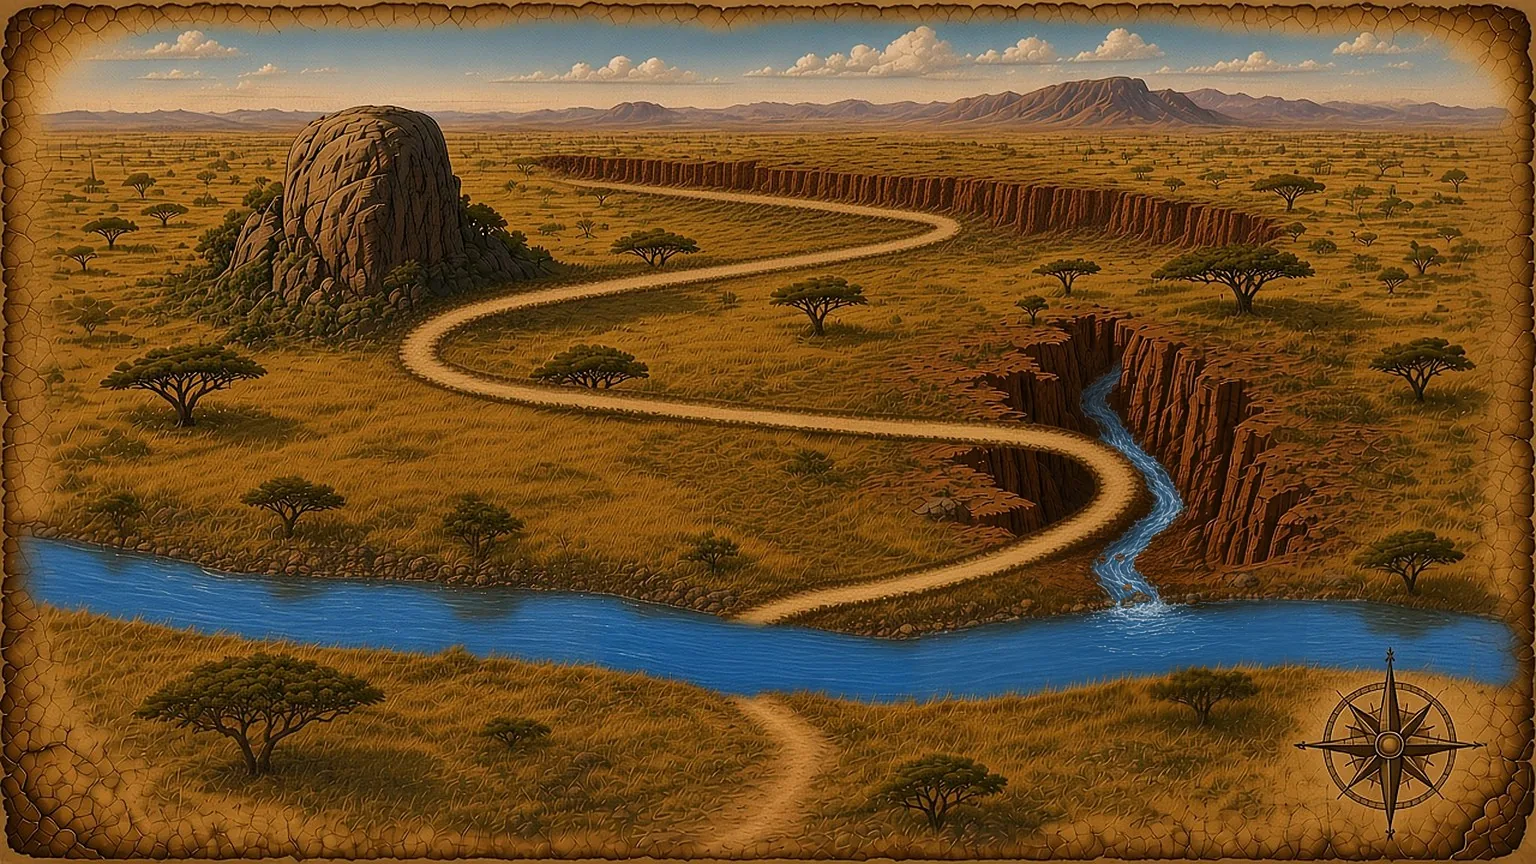
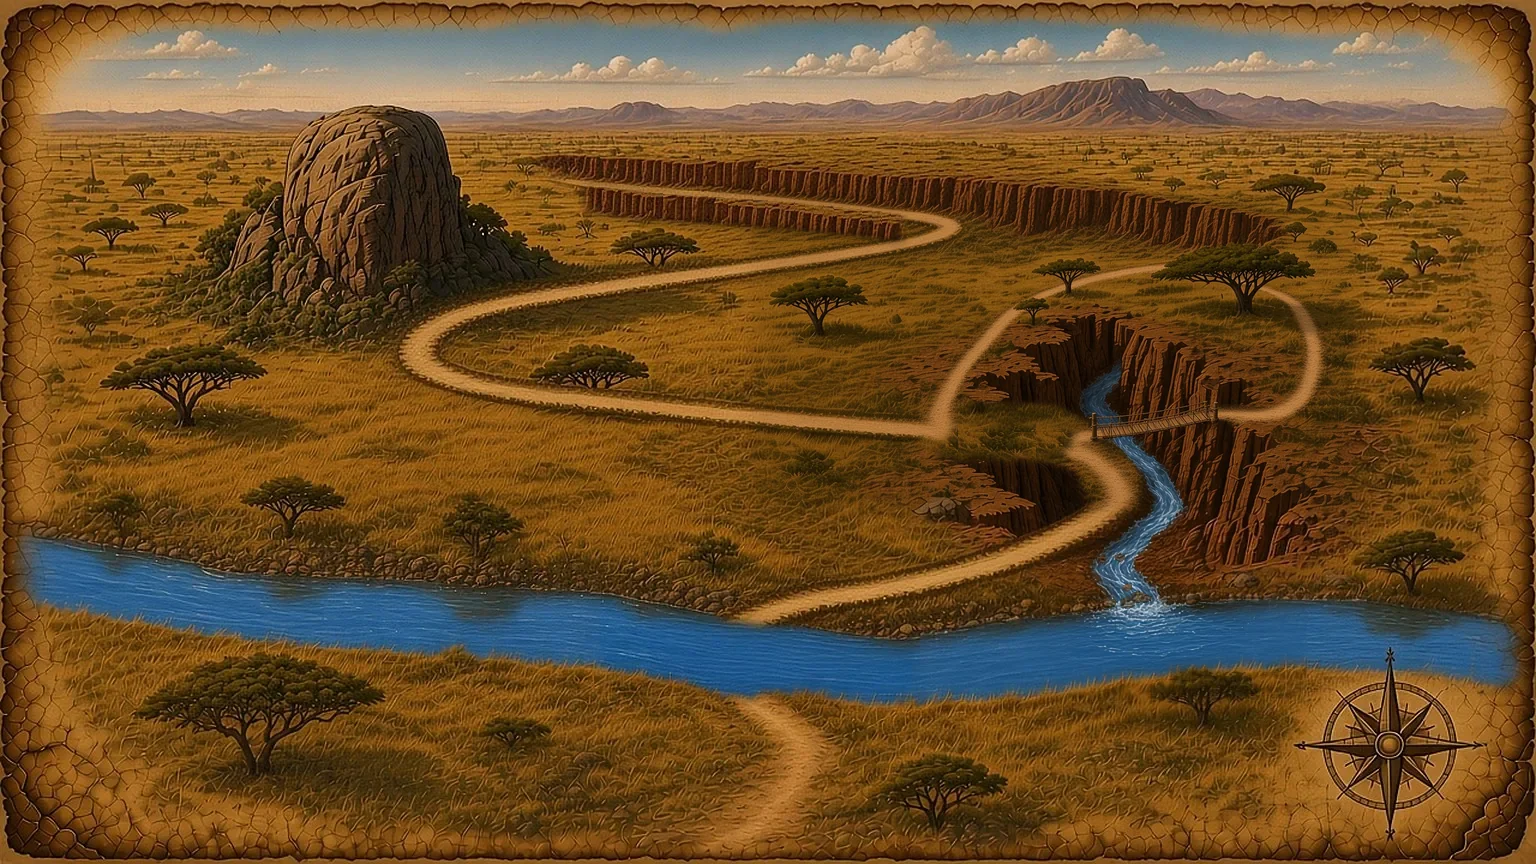
Map changes from Joe's 8:32-8:34 PM notes. Savanna: Needle Gap moved across the canyon onto the east rim, reached by a rope-and-plank bridge; the trail then loops around the head of the gorge to King's Crossing (old shortcut bend removed). Final path into Rendezvous Point now runs through a narrow g

Changed region(s): [[0.375, 0.2188, 0.875, 0.5938], [0.5312, 0.5, 0.5938, 0.5625]]

diff --git a/index.html b/index.html
@@ -2406,8 +2406,8 @@ const EP_INFO = [
       [796,192],[791,191],[785,189],[779,188],[773,186],[767,185],[761,184]
     ] },
   { name: "The Savanna", filter: "", soon: "", map: "map-savanna-wide", rendezvous: "Rendezvous Point",
-    pts: [[776, 804], [761, 659], [1116, 484], [419, 351], [577, 182]],
-    lab: [[110, 0], [125, 5], [-120, 0], [-110, 10], [-10, -45]],
+    pts: [[776, 804], [761, 659], [1252, 410], [419, 351], [577, 182]],
+    lab: [[110, 0], [125, 5], [118, 8], [-110, 10], [-10, -45]],
     path: [
       [776,804],[779,799],[782,794],[786,789],[789,784],[792,779],[796,774],[799,769],
       [801,763],[803,757],[802,751],[800,746],[796,741],[793,736],[789,731],[785,727],
@@ -2421,45 +2421,58 @@ const EP_INFO = [
       [978,567],[984,566],[990,564],[996,563],[1001,561],[1007,559],[1013,557],[1018,555],
       [1024,553],[1030,551],[1035,548],[1041,546],[1046,544],[1052,541],[1057,539],[1062,536],
       [1068,533],[1073,530],[1078,527],[1083,524],[1088,521],[1093,517],[1098,513],[1102,509],
-      [1106,505],[1110,500],[1113,495],[1116,490],[1116,484],[1115,478],[1113,472],[1109,468],
-      [1105,463],[1101,459],[1096,456],[1091,453],[1085,450],[1080,448],[1074,446],[1068,444],
-      [1062,443],[1057,441],[1051,440],[1045,439],[1039,438],[1033,438],[1027,437],[1021,436],
-      [1015,435],[1009,434],[1003,434],[997,433],[991,433],[985,433],[979,433],[973,432],
-      [967,432],[961,431],[955,431],[949,431],[943,431],[937,430],[931,430],[925,429],
-      [919,429],[913,429],[907,428],[901,428],[895,428],[889,428],[884,427],[878,426],
-      [872,426],[866,426],[860,425],[854,425],[848,424],[842,424],[836,423],[830,423],
-      [824,422],[818,422],[812,421],[806,421],[800,420],[794,420],[788,419],[782,418],
-      [776,418],[770,417],[764,417],[758,417],[752,416],[746,416],[740,415],[734,415],
-      [728,414],[722,414],[716,413],[710,412],[704,412],[698,411],[692,411],[686,410],
-      [680,409],[674,409],[668,408],[662,407],[656,407],[650,406],[645,406],[639,405],
-      [633,405],[627,404],[621,403],[615,403],[609,403],[603,402],[597,401],[591,401],
-      [585,400],[579,399],[573,399],[567,398],[561,397],[555,397],[549,397],[543,397],
-      [537,396],[531,395],[525,394],[519,393],[513,392],[507,391],[501,390],[496,389],
-      [490,388],[484,387],[478,386],[472,384],[466,383],[460,381],[455,379],[449,377],
-      [444,375],[438,372],[433,369],[428,366],[424,362],[420,357],[419,351],[420,345],
-      [422,340],[426,335],[430,331],[435,327],[440,324],[446,321],[451,319],[457,316],
-      [462,314],[468,312],[474,311],[479,309],[485,308],[491,306],[497,305],[503,304],
-      [509,302],[514,301],[520,300],[526,299],[532,298],[538,297],[544,296],[550,295],
-      [556,294],[562,293],[568,292],[574,291],[580,290],[586,290],[591,289],[597,288],
-      [603,287],[609,286],[615,285],[621,284],[627,283],[633,283],[639,282],[645,281],
-      [651,280],[657,279],[663,279],[669,278],[675,277],[681,276],[687,276],[692,275],
-      [698,274],[704,273],[710,272],[716,272],[722,271],[728,270],[734,269],[740,269],
-      [746,268],[752,267],[758,266],[764,265],[770,264],[776,264],[782,263],[788,262],
-      [794,261],[799,260],[805,259],[811,259],[817,258],[823,257],[829,256],[835,255],
-      [841,254],[847,253],[853,252],[859,252],[865,251],[871,250],[877,249],[883,247],
-      [888,246],[894,245],[900,244],[906,243],[912,242],[918,241],[924,239],[929,237],
-      [935,235],[939,230],[938,224],[934,220],[929,218],[923,217],[917,216],[911,215],
-      [905,214],[899,214],[893,213],[887,213],[881,212],[875,212],[869,211],[863,210],
-      [857,210],[851,209],[845,208],[839,207],[833,206],[827,206],[821,205],[815,205],
-      [809,204],[804,203],[798,203],[792,202],[786,201],[780,201],[774,200],[768,200],
-      [762,199],[756,198],[750,198],[744,198],[738,197],[732,197],[726,196],[720,196],
-      [714,195],[708,194],[702,194],[696,193],[690,193],[684,193],[678,192],[672,191],
-      [666,191],[660,190],[654,190],[648,189],[642,189],[636,188],[630,187],[624,186],
-      [618,186],[612,185],[606,185],[600,185],[594,184],[589,183],[583,183],[577,182]
+      [1106,505],[1110,500],[1113,495],[1115,490],[1116,484],[1115,478],[1114,472],[1112,466],
+      [1110,461],[1107,455],[1105,450],[1101,445],[1097,440],[1093,436],[1093,431],[1099,429],
+      [1105,428],[1111,428],[1117,427],[1123,427],[1129,426],[1135,425],[1141,424],[1147,423],
+      [1152,423],[1158,422],[1164,421],[1170,420],[1176,420],[1182,419],[1188,418],[1194,418],
+      [1200,418],[1206,417],[1212,417],[1218,416],[1224,416],[1230,415],[1236,415],[1242,415],
+      [1248,415],[1254,415],[1260,414],[1266,413],[1272,412],[1278,411],[1283,409],[1289,406],
+      [1294,403],[1298,398],[1301,393],[1304,388],[1306,383],[1309,377],[1311,372],[1313,366],
+      [1315,360],[1315,354],[1314,349],[1312,343],[1310,337],[1307,332],[1304,327],[1301,322],
+      [1298,316],[1295,311],[1292,306],[1288,301],[1285,296],[1281,294],[1276,293],[1270,291],
+      [1264,289],[1258,288],[1253,286],[1247,284],[1241,282],[1235,281],[1230,279],[1224,278],
+      [1218,276],[1212,275],[1206,273],[1200,272],[1194,271],[1189,270],[1183,269],[1177,269],
+      [1171,268],[1165,268],[1159,268],[1153,269],[1147,269],[1141,270],[1135,270],[1129,271],
+      [1123,272],[1117,274],[1111,275],[1105,276],[1099,278],[1094,279],[1088,280],[1082,282],
+      [1076,283],[1070,284],[1064,286],[1059,288],[1053,290],[1048,293],[1042,295],[1037,298],
+      [1032,301],[1027,304],[1022,307],[1017,310],[1012,314],[1007,318],[1002,321],[998,325],
+      [994,330],[990,334],[986,339],[982,344],[979,349],[975,353],[972,358],[968,363],
+      [964,368],[961,373],[957,378],[954,383],[951,388],[948,393],[946,398],[944,404],
+      [942,410],[941,416],[938,421],[935,426],[929,429],[923,429],[917,429],[911,429],
+      [905,429],[901,428],[895,428],[889,428],[884,427],[878,426],[872,426],[866,426],
+      [860,425],[854,425],[848,424],[842,424],[836,423],[830,423],[824,422],[818,422],
+      [812,421],[806,421],[800,420],[794,420],[788,419],[782,418],[776,418],[770,417],
+      [764,417],[758,417],[752,416],[746,416],[740,415],[734,415],[728,414],[722,414],
+      [716,413],[710,412],[704,412],[698,411],[692,411],[686,410],[680,409],[674,409],
+      [668,408],[662,407],[656,407],[650,406],[645,406],[639,405],[633,405],[627,404],
+      [621,403],[615,403],[609,403],[603,402],[597,401],[591,401],[585,400],[579,399],
+      [573,399],[567,398],[561,397],[555,397],[549,397],[543,397],[537,396],[531,395],
+      [525,394],[519,393],[513,392],[507,391],[501,390],[496,389],[490,388],[484,387],
+      [478,386],[472,384],[466,383],[460,381],[455,379],[449,377],[444,375],[438,372],
+      [433,369],[428,366],[424,362],[420,357],[419,351],[420,345],[422,340],[426,335],
+      [430,331],[435,327],[440,324],[446,321],[451,319],[457,316],[462,314],[468,312],
+      [474,311],[479,309],[485,308],[491,306],[497,305],[503,304],[509,302],[514,301],
+      [520,300],[526,299],[532,298],[538,297],[544,296],[550,295],[556,294],[562,293],
+      [568,292],[574,291],[580,290],[586,290],[591,289],[597,288],[603,287],[609,286],
+      [615,285],[621,284],[627,283],[633,283],[639,282],[645,281],[651,280],[657,279],
+      [663,279],[669,278],[675,277],[681,276],[687,276],[692,275],[698,274],[704,273],
+      [710,272],[716,272],[722,271],[728,270],[734,269],[740,269],[746,268],[752,267],
+      [758,266],[764,265],[770,264],[776,264],[782,263],[788,262],[794,261],[799,260],
+      [805,259],[811,259],[817,258],[823,257],[829,256],[835,255],[841,254],[847,253],
+      [853,252],[859,252],[865,251],[871,250],[877,249],[883,247],[888,246],[894,245],
+      [900,244],[906,243],[912,242],[918,241],[924,239],[929,237],[935,235],[939,230],
+      [938,224],[934,220],[929,218],[923,217],[917,216],[911,215],[905,214],[899,214],
+      [893,213],[887,213],[881,212],[875,212],[869,211],[863,210],[857,210],[851,209],
+      [845,208],[839,207],[833,206],[827,206],[821,205],[815,205],[809,204],[804,203],
+      [798,203],[792,202],[786,201],[780,201],[774,200],[768,200],[762,199],[756,198],
+      [750,198],[744,198],[738,197],[732,197],[726,196],[720,196],[714,195],[708,194],
+      [702,194],[696,193],[690,193],[684,193],[678,192],[672,191],[666,191],[660,190],
+      [654,190],[648,189],[642,189],[636,188],[630,187],[624,186],[618,186],[612,185],
+      [606,185],[600,185],[594,184],[589,183],[583,183],[577,182]
     ] },
   { name: "Mountain Crossing", filter: "", soon: "", map: "map-mountain-wide", rendezvous: "Rendezvous Point",
-    pts: [[687, 795], [450, 602], [1101, 467], [520, 320], [881, 143]],
-    lab: [[-110, 0], [-120, -45], [110, 0], [-60, 50], [110, 10]],
+    pts: [[687, 795], [450, 602], [1101, 467], [520, 320], [1218, 354]],
+    lab: [[-110, 0], [-120, -45], [110, 0], [-60, 50], [30, 42]],
     path: [
       [687,795],[681,793],[676,790],[672,786],[669,781],[670,775],[673,770],[678,766],
       [684,764],[689,762],[695,761],[701,760],[707,758],[713,757],[719,755],[724,754],
@@ -2507,7 +2520,18 @@ const EP_INFO = [
       [712,205],[717,204],[723,203],[729,202],[735,201],[741,200],[747,199],[753,198],
       [759,197],[765,196],[771,195],[777,194],[782,192],[788,191],[794,190],[800,189],
       [806,187],[812,186],[817,184],[823,183],[829,181],[835,179],[840,177],[846,174],
-      [851,171],[856,167],[859,163],[863,158],[866,153],[871,149],[876,146],[881,143]
+      [851,171],[856,167],[859,163],[863,158],[866,153],[875,145],[879,141],[883,136],
+      [886,131],[889,126],[890,120],[889,114],[890,108],[893,103],[898,100],[902,104],
+      [906,109],[909,114],[912,119],[915,124],[915,130],[913,136],[913,142],[915,148],
+      [919,153],[923,157],[927,161],[932,165],[936,168],[942,171],[947,174],[953,176],
+      [958,179],[964,181],[969,183],[975,186],[980,189],[985,191],[990,195],[994,199],
+      [996,205],[997,211],[1000,216],[1002,222],[1005,227],[1008,232],[1012,236],[1017,239],
+      [1023,242],[1028,245],[1034,247],[1039,250],[1045,252],[1050,254],[1056,256],[1061,258],
+      [1067,261],[1072,264],[1075,269],[1076,275],[1077,281],[1079,286],[1081,292],[1084,297],
+      [1087,303],[1090,307],[1095,312],[1099,316],[1104,319],[1109,322],[1114,325],[1120,328],
+      [1125,330],[1131,331],[1137,333],[1143,334],[1149,336],[1154,337],[1160,338],[1166,340],
+      [1172,341],[1178,343],[1183,345],[1189,346],[1195,348],[1201,349],[1207,351],[1212,352],
+      [1218,354]
     ] }
 ];
 const LV_INFO = [
@@ -2743,7 +2767,7 @@ const Cine = (() => {
         const unfurl = !keepProgress, reduced = ANIM < 1 && ANIM >= 0.3;
         const ufDur = reduced ? 300 : (seenMaps.has(ep) ? 750 : 1000);
         if (unfurl) { seenMaps.add(ep); ufEnd = performance.now() + ufDur; timers.push(setTimeout(() => { const u = root.querySelector(".munroll"); if (u) u.remove(); }, ufDur + 60)); }
-        show('<div class="cscreen map ' + (unfurl ? "uf" : "noanim") + '"' + (unfurl ? ' style="--uf:' + ufDur + 'ms"' : "") + '><div class="mapbox"><img src="' + ASSET(mapImg + ".webp") + '" onerror="this.onerror=null;this.src=\'' + ASSET(mapImg + ".jpg") + '\'" alt="" style="filter:' + (E.filter || "none") + '"><svg viewBox="0 0 1536 864" preserveAspectRatio="none">' + buildSvg() +
+        show('<div class="cscreen map ' + (unfurl ? "uf" : "noanim") + '"' + (unfurl ? ' style="--uf:' + ufDur + 'ms"' : "") + '><div class="mapbox"><img src="' + ASSET(mapImg + ".webp?v=20261111m") + '" onerror="this.onerror=null;this.src=\'' + ASSET(mapImg + ".jpg?v=20261111m") + '\'" alt="" style="filter:' + (E.filter || "none") + '"><svg viewBox="0 0 1536 864" preserveAspectRatio="none">' + buildSvg() +
           '</svg><div class="mban"><div class="mep">Episode ' + (ep + 1) + " · " + E.name + '</div><div class="mlv">Level ' + (lv + 1) + '</div><div class="mname">' + (L.mapLabel || L.name) + "</div></div>" +
           (soon ? '<div class="msoon">' + soon + "</div>" : "") + '<button class="mlb" data-cine="lb" aria-label="Star Scoreboard">🏆</button>' +
           (choice ? '<div class="mchoice">' + (showSave ? '<button class="msave-tag" data-cine="msave">Save for Later</button>' : "") + '<button class="mrose cprimary" data-cine="mcont" aria-label="Continue">' + compassSvg + '<span class="mrose-lab">Continue<small>▶</small></span></button></div>' : "") + "</div>" +
